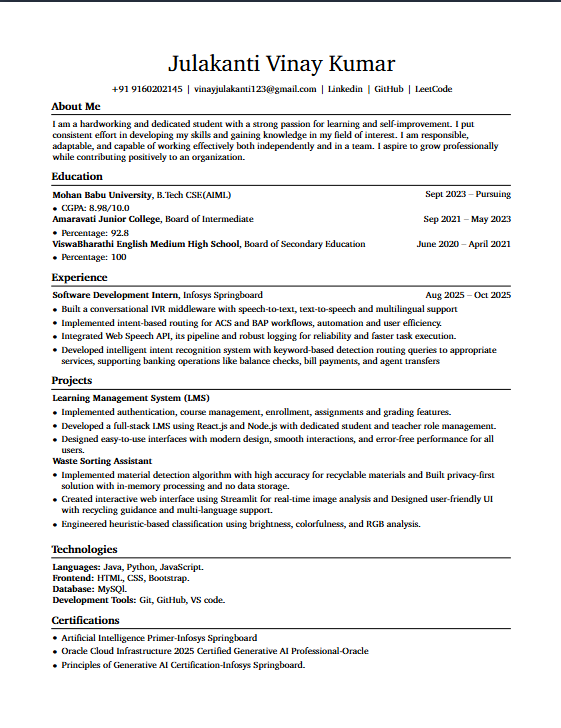
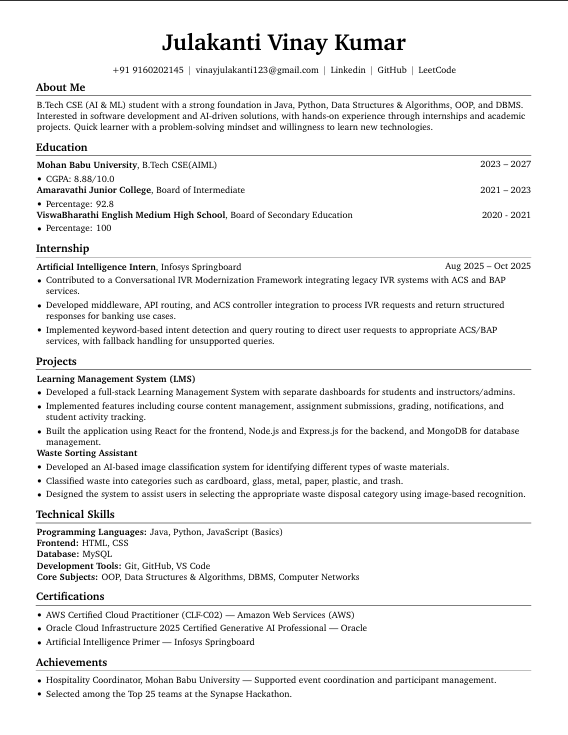
Update portfolio details and resume

Changed region(s): [[0.0606, 0.0302, 0.9394, 0.967]]

diff --git a/index.html b/index.html
@@ -119,7 +119,7 @@
         </div>
         <div class="about-stats">
           <div class="about-stat-card">
-            <h2>8.98</h2>
+            <h2>8.88</h2>
             <p>CGPA</p>
           </div>
           <div class="about-stat-card">
@@ -168,7 +168,7 @@
         <p class="education-date">2023 - PRESENT</p>
         <h3>B.Tech - Computer Science (AIML)</h3>
         <p class="university">Mohan Babu University, Tirupati</p>
-        <p class="score">8.98</p>
+        <p class="score">8.88</p>
         <p class="score-label">CGPA</p>
       </div>
 
@@ -358,8 +358,8 @@
       <div class="cert-card">
         <div class="cert-icon">✨</div>
         <div class="cert-content">
-          <h3>Principles of Generative AI</h3>
-          <p>Infosys Springboard</p>
+          <h3>AWS Certified Cloud Practitioner (CLF-C02)</h3>
+          <p>Amazon Web Services (AWS)</p>
         </div>
       </div>
 
